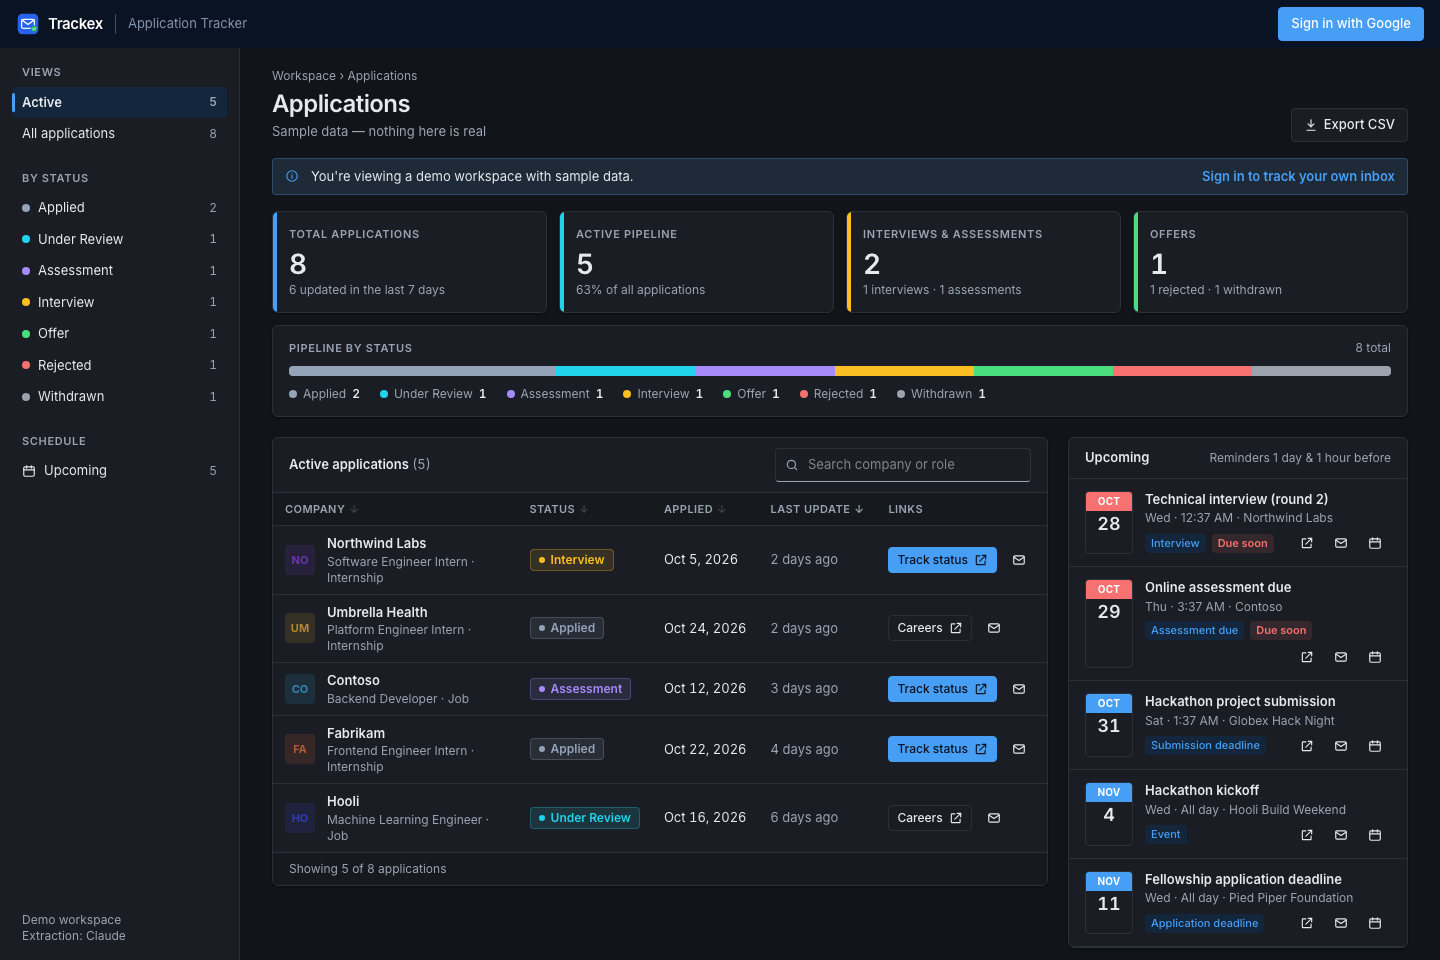
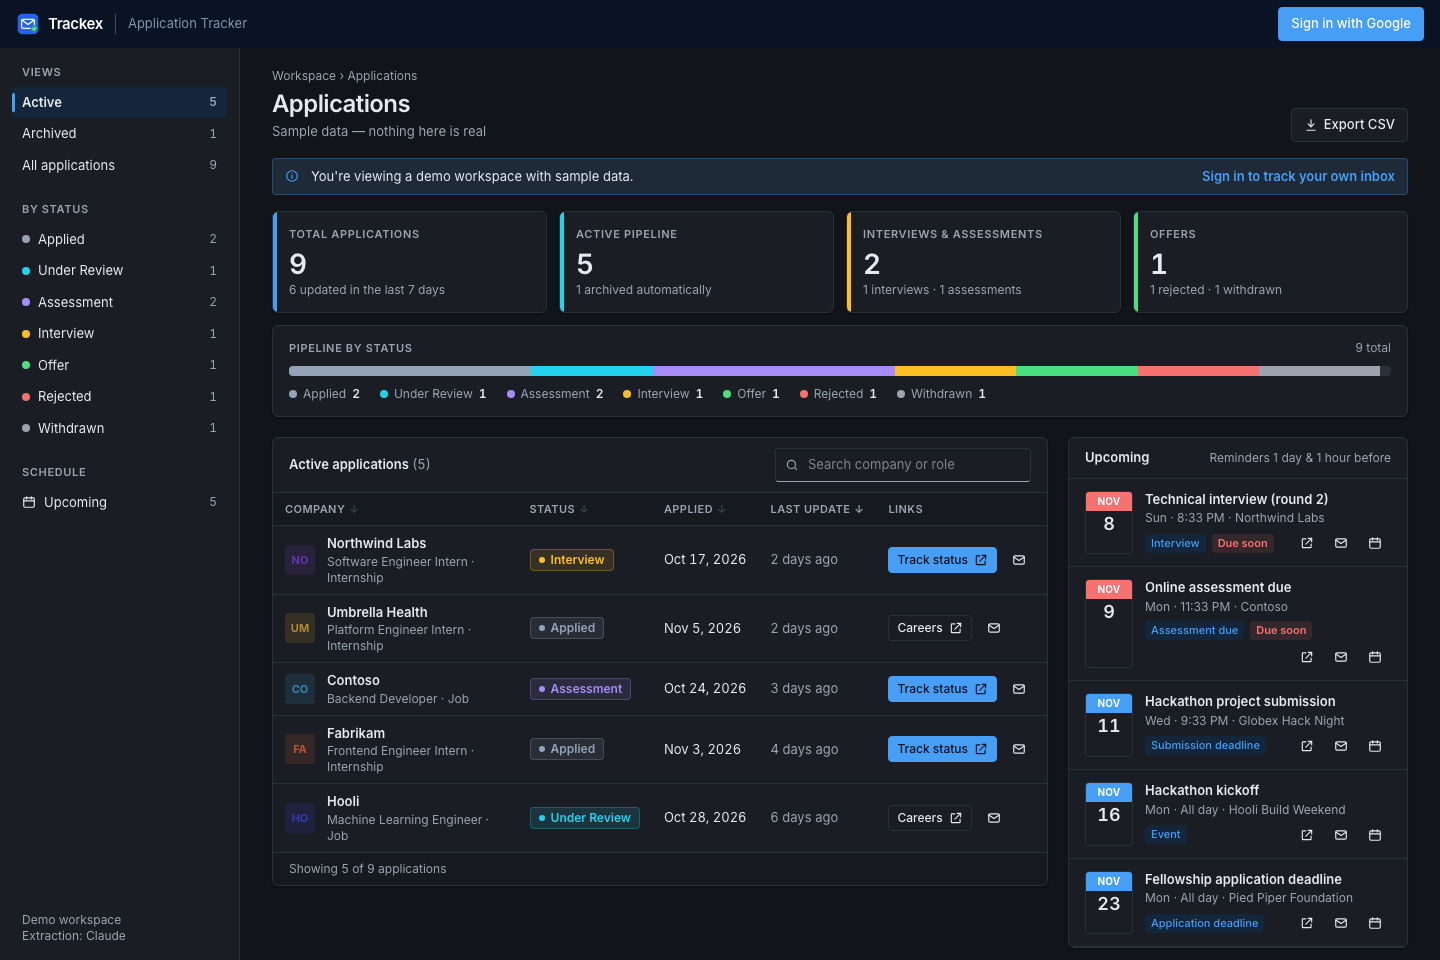
feat: auto-archive expired assessments and fix employer for forwarded placement mail
- lib/archive.ts: Assessment/Interview with no upcoming event and 7 days idle -> expired;
  Applied/Under Review idle 60 days -> quiet. Derived on read, nothing deleted.
- Dashboard: Archived view, Expired/Quiet tags, tiles count live applications only
- guessCompany: for college/placement senders take the employer from the subject;
  same rule added to the Claude prompt
- tests, demo data (expired example), changelog, README, refreshed screenshots

diff --git a/components/DashboardView.tsx b/components/DashboardView.tsx
@@ -11,7 +11,7 @@ import Toast from '@/components/Toast';
 import Modal from '@/components/Modal';
 import TimezoneReporter from '@/components/TimezoneReporter';
 
-type Filter = 'Active' | 'All' | Status;
+type Filter = 'Active' | 'Archived' | 'All' | Status;
 type SortKey = 'company' | 'status' | 'appliedOn' | 'lastUpdate';
 const INACTIVE: Status[] = ['Rejected', 'Withdrawn', 'Offer'];
 const WEEK_MS = 7 * 86_400_000;
@@ -149,14 +149,20 @@ export default function DashboardView({ data: initial, mode }: { data: Dashboard
   const apps = data.applications;
   const counts = useMemo(() => {
     const by = Object.fromEntries(STATUSES.map((s) => [s, apps.filter((a) => a.status === s).length])) as Record<Status, number>;
-    return { by, total: apps.length, active: apps.filter((a) => !INACTIVE.includes(a.status)).length };
+    const live = apps.filter((a) => !a.archived);
+    return {
+      by, total: apps.length, active: live.filter((a) => !INACTIVE.includes(a.status)).length,
+      archived: apps.length - live.length,
+      interviews: live.filter((a) => a.status === 'Interview').length,
+      assessments: live.filter((a) => a.status === 'Assessment').length
+    };
   }, [apps]);
   const updatedThisWeek = now === null ? null : apps.filter((a) => now - new Date(a.lastUpdate).getTime() < WEEK_MS).length;
 
   const visible = useMemo(() => {
     const q = query.trim().toLowerCase();
     const list = apps.filter((a) => {
-      if (filter === 'Active' ? INACTIVE.includes(a.status) : filter !== 'All' && a.status !== filter) return false;
+      if (filter === 'Active' ? INACTIVE.includes(a.status) || a.archived : filter === 'Archived' ? !a.archived : filter !== 'All' && a.status !== filter) return false;
       return !q || `${a.company} ${a.role} ${a.type} ${a.status}`.toLowerCase().includes(q);
     });
     const { key, dir } = sort;
@@ -178,8 +184,8 @@ export default function DashboardView({ data: initial, mode }: { data: Dashboard
     setSort((s) => (s.key === key ? { key, dir: (s.dir * -1) as 1 | -1 } : { key, dir: key === 'company' ? 1 : -1 }));
 
   const lastSynced = data.lastSyncAt ? (now ? relTime(data.lastSyncAt, now) : '…') : 'never';
-  const filterCount = (f: Filter) => (f === 'Active' ? counts.active : f === 'All' ? counts.total : counts.by[f]);
-  const filterTitle = filter === 'Active' ? 'Active applications' : filter === 'All' ? 'All applications' : filter;
+  const filterCount = (f: Filter) => (f === 'Active' ? counts.active : f === 'Archived' ? counts.archived : f === 'All' ? counts.total : counts.by[f]);
+  const filterTitle = filter === 'Active' ? 'Active applications' : filter === 'All' ? 'All applications' : filter === 'Archived' ? 'Archived applications' : filter;
   const pct = (n: number) => (counts.total ? Math.round((n / counts.total) * 100) : 0);
 
   const sortHead = (label: string, key: SortKey, cls = '') => (
@@ -226,8 +232,8 @@ export default function DashboardView({ data: initial, mode }: { data: Dashboard
   const initialLetter = (data.user?.name || data.user?.email || '?').trim().charAt(0).toUpperCase();
   const kpis: { label: string; value: number; note: string; color: string }[] = [
     { label: 'Total applications', value: counts.total, note: updatedThisWeek === null ? '…' : `${updatedThisWeek} updated in the last 7 days`, color: 'var(--accent)' },
-    { label: 'Active pipeline', value: counts.active, note: `${pct(counts.active)}% of all applications`, color: 'var(--s-review)' },
-    { label: 'Interviews & assessments', value: counts.by.Interview + counts.by.Assessment, note: `${counts.by.Interview} interviews · ${counts.by.Assessment} assessments`, color: 'var(--s-interview)' },
+    { label: 'Active pipeline', value: counts.active, note: counts.archived ? `${counts.archived} archived automatically` : `${pct(counts.active)}% of all applications`, color: 'var(--s-review)' },
+    { label: 'Interviews & assessments', value: counts.interviews + counts.assessments, note: `${counts.interviews} interviews · ${counts.assessments} assessments`, color: 'var(--s-interview)' },
     { label: 'Offers', value: counts.by.Offer, note: `${counts.by.Rejected} rejected · ${counts.by.Withdrawn} withdrawn`, color: 'var(--s-offer)' }
   ];
 
@@ -285,6 +291,7 @@ export default function DashboardView({ data: initial, mode }: { data: Dashboard
              style={{ background: 'var(--panel)', borderRight: '1px solid var(--line)' }}>
           <div className="eyebrow px-2.5 pb-1.5">Views</div>
           {navButton('Active', 'Active')}
+          {navButton('Archived', 'Archived')}
           {navButton('All', 'All applications')}
           <div className="eyebrow mt-5 px-2.5 pb-1.5">By status</div>
           {STATUSES.map((s) => navButton(s, s, STATUS_COLOR[s]))}
@@ -372,7 +379,7 @@ export default function DashboardView({ data: initial, mode }: { data: Dashboard
                 <span>{filterTitle} <span className="num font-normal muted">({visible.length})</span></span>
                 <div className="flex flex-1 flex-wrap items-center justify-end gap-2">
                   <select aria-label="Filter by status" className="input lg:hidden" value={filter} onChange={(e) => setFilter(e.target.value as Filter)}>
-                    {(['Active', 'All', ...STATUSES] as Filter[]).map((f) => <option key={f} value={f}>{f} ({filterCount(f)})</option>)}
+                    {(['Active', 'Archived', 'All', ...STATUSES] as Filter[]).map((f) => <option key={f} value={f}>{f} ({filterCount(f)})</option>)}
                   </select>
                   <label className="relative block w-full sm:w-64">
                     <span className="pointer-events-none absolute left-2.5 top-1/2 flex -translate-y-1/2 muted">{Icon.search}</span>
@@ -400,7 +407,7 @@ export default function DashboardView({ data: initial, mode }: { data: Dashboard
                           <div className="min-w-0 flex-1">
                             <div className="flex items-start justify-between gap-2">
                               <div className="truncate font-semibold">{a.company}</div>
-                              <StatusChip status={a.status} />
+                              <StatusChip status={a.status} archived={a.archived} />
                             </div>
                             <div className="truncate text-[13px] muted">{a.role || 'Role not detected'}{a.type ? ` · ${a.type}` : ''}</div>
                             <div className="mt-1 text-xs muted">Applied {shortDate(a.appliedOn)} · updated {now ? relTime(a.lastUpdate, now) : '…'}</div>
@@ -435,7 +442,7 @@ export default function DashboardView({ data: initial, mode }: { data: Dashboard
                                 </div>
                               </div>
                             </td>
-                            <td><StatusChip status={a.status} /></td>
+                            <td><StatusChip status={a.status} archived={a.archived} /></td>
                             <td className="num whitespace-nowrap">{shortDate(a.appliedOn)}</td>
                             <td className="whitespace-nowrap muted" title={shortDate(a.lastUpdate)}>{now ? relTime(a.lastUpdate, now) : '…'}</td>
                             <td>{links(a)}</td>

diff --git a/test/v2/archive.test.ts b/test/v2/archive.test.ts
@@ -1,0 +1,59 @@
+import { describe, test, expect } from 'vitest';
+import { archiveReason, markArchived } from '@/lib/archive';
+import { companyFromSubject, guessCompany } from '@/lib/extract/heuristics';
+import type { ApplicationView, EventView, Status } from '@/lib/types';
+
+const DAY = 86_400_000;
+const NOW = Date.parse('2026-11-07T12:00:00Z');
+const app = (company: string, status: Status, idleDays: number): ApplicationView => ({
+  id: company, company, role: '', type: '', status, appliedOn: new Date(NOW - 40 * DAY).toISOString(),
+  lastUpdate: new Date(NOW - idleDays * DAY).toISOString(), portalUrl: '', portalKind: '', emailLink: '', lastSubject: '', notes: ''
+});
+const event = (organization: string, inDays: number): EventView => ({
+  id: organization, title: 'x', organization, kind: 'assessment_due', startsAt: new Date(NOW + inDays * DAY).toISOString(),
+  allDay: false, link: '', emailLink: '', calendarLink: ''
+});
+
+describe('auto-archive', () => {
+  test('an assessment with no upcoming date and a week of silence expires', () => {
+    expect(archiveReason(app('Accenture', 'Assessment', 30), [], NOW)).toBe('expired');
+    expect(archiveReason(app('Accenture', 'Interview', 8), [], NOW)).toBe('expired');
+  });
+
+  test('a recent update, or an upcoming event for the company, keeps it live', () => {
+    expect(archiveReason(app('Accenture', 'Assessment', 3), [], NOW)).toBeNull();
+    expect(archiveReason(app('Accenture', 'Assessment', 30), [event('Accenture', 2)], NOW)).toBeNull();
+    expect(archiveReason(app('Northwind Labs', 'Interview', 30), [event('Northwind', 1)], NOW)).toBeNull();
+  });
+
+  test('a past event does not keep it live; another company\'s event does not either', () => {
+    expect(archiveReason(app('Accenture', 'Assessment', 30), [event('Accenture', -2)], NOW)).toBe('expired');
+    expect(archiveReason(app('Accenture', 'Assessment', 30), [event('Contoso', 2)], NOW)).toBe('expired');
+  });
+
+  test('applied / under review go quiet after 60 days; closed outcomes are never archived', () => {
+    expect(archiveReason(app('Hooli', 'Applied', 61), [], NOW)).toBe('quiet');
+    expect(archiveReason(app('Hooli', 'Under Review', 59), [], NOW)).toBeNull();
+    for (const s of ['Offer', 'Rejected', 'Withdrawn'] as Status[]) expect(archiveReason(app('X Corp', s, 400), [], NOW)).toBeNull();
+  });
+
+  test('markArchived annotates every row', () => {
+    const out = markArchived([app('Accenture', 'Assessment', 30), app('Hooli', 'Applied', 2)], [], NOW);
+    expect(out.map(a => a.archived)).toEqual(['expired', null]);
+  });
+});
+
+describe('forwarded placement-cell mail', () => {
+  const from = '"Dr. Sandeep Chaurasia [MU - Jaipur]" <sandeep.chaurasia@jaipur.manipal.edu>';
+  const subject = 'FW: Urgent: Accenture \\\\ Important Guidelines for Accenture Assessment Process';
+
+  test('the employer comes from the subject, not the forwarding professor', () => {
+    expect(companyFromSubject(subject)).toBe('Accenture');
+    expect(guessCompany({ from, subject })).toBe('Accenture');
+  });
+
+  test('ordinary employer mail is unchanged', () => {
+    expect(guessCompany({ from: '"Stripe Recruiting" <jobs@stripe.com>', subject: 'Thanks for applying' })).toBe('Stripe');
+    expect(guessCompany({ from })).not.toBe('');
+  });
+});

diff --git a/lib/data.ts b/lib/data.ts
@@ -1,5 +1,6 @@
 import { and, asc, desc, eq, gt } from 'drizzle-orm';
 import { db, schema } from '@/lib/db';
+import { markArchived } from '@/lib/archive';
 import { claudeEnabled } from '@/lib/extract/claude';
 import type { DashboardData, EventKind, PortalKind, Status } from '@/lib/types';
 
@@ -18,19 +19,22 @@ export async function getDashboardData(userId: string): Promise<DashboardData> {
       .orderBy(asc(schema.events.startsAt)).limit(50)
   ]);
 
+  const events = evs.map(e => ({
+    id: e.id, title: e.title, organization: e.organization, kind: e.kind as EventKind,
+    startsAt: e.startsAt.toISOString(), allDay: e.allDay, link: e.link, emailLink: e.emailLink,
+    calendarLink: e.calendarLink
+  }));
+  const applications = apps.map(a => ({
+    id: a.id, company: a.company, role: a.role, type: a.type, status: a.status as Status,
+    appliedOn: a.appliedOn.toISOString(), lastUpdate: a.lastUpdate.toISOString(),
+    portalUrl: a.portalUrl, portalKind: a.portalKind as PortalKind, emailLink: a.emailLink,
+    lastSubject: a.lastSubject, notes: a.notes
+  }));
+
   return {
     user: { name: user.name, email: user.email, image: user.image },
-    applications: apps.map(a => ({
-      id: a.id, company: a.company, role: a.role, type: a.type, status: a.status as Status,
-      appliedOn: a.appliedOn.toISOString(), lastUpdate: a.lastUpdate.toISOString(),
-      portalUrl: a.portalUrl, portalKind: a.portalKind as PortalKind, emailLink: a.emailLink,
-      lastSubject: a.lastSubject, notes: a.notes
-    })),
-    events: evs.map(e => ({
-      id: e.id, title: e.title, organization: e.organization, kind: e.kind as EventKind,
-      startsAt: e.startsAt.toISOString(), allDay: e.allDay, link: e.link, emailLink: e.emailLink,
-      calendarLink: e.calendarLink
-    })),
+    applications: markArchived(applications, events),
+    events,
     lastSyncAt: user.lastSyncAt?.toISOString() ?? null,
     syncError: user.syncError,
     backfilling: !user.backfillDone,

diff --git a/lib/archive.ts b/lib/archive.ts
@@ -1,0 +1,34 @@
+import { companyKey } from '@/lib/match';
+import type { ApplicationView, ArchiveReason, EventView } from '@/lib/types';
+
+const DAY = 86_400_000;
+
+/** How long an application may sit without news before it leaves the Active view. */
+export const ARCHIVE_AFTER_DAYS = { scheduled: 7, quiet: 60 } as const;
+
+const SCHEDULED = new Set(['Assessment', 'Interview']);
+const EARLY = new Set(['Applied', 'Under Review']);
+
+/**
+ * Why an application should be archived, or null if it is still live. Pure and derived on read,
+ * so nothing is deleted and an application comes back on its own if a new email arrives.
+ *  - expired: an assessment or interview whose date has passed (no upcoming event, no news for a week)
+ *  - quiet:   applied or under review with no news for 60 days
+ * Offer, Rejected and Withdrawn are already outside Active, so they are never archived here.
+ */
+export function archiveReason(app: ApplicationView, upcoming: EventView[], now: number): ArchiveReason | null {
+  const idle = (now - new Date(app.lastUpdate).getTime()) / DAY;
+  if (SCHEDULED.has(app.status)) {
+    const key = companyKey(app.company);
+    const hasUpcoming = key.length >= 3 && upcoming.some(e => {
+      const k = companyKey(e.organization);
+      return new Date(e.startsAt).getTime() > now && k.length >= 3 && (k.includes(key) || key.includes(k));
+    });
+    return !hasUpcoming && idle > ARCHIVE_AFTER_DAYS.scheduled ? 'expired' : null;
+  }
+  return EARLY.has(app.status) && idle > ARCHIVE_AFTER_DAYS.quiet ? 'quiet' : null;
+}
+
+export function markArchived(apps: ApplicationView[], events: EventView[], now = Date.now()): ApplicationView[] {
+  return apps.map(a => ({ ...a, archived: archiveReason(a, events, now) }));
+}

diff --git a/components/StatusChip.tsx b/components/StatusChip.tsx
@@ -1,4 +1,4 @@
-import type { Status } from '@/lib/types';
+import type { ArchiveReason, Status } from '@/lib/types';
 
 export const STATUS_COLOR: Record<Status, string> = {
   Applied: 'var(--s-applied)',
@@ -11,15 +11,29 @@ export const STATUS_COLOR: Record<Status, string> = {
 };
 
 /** Tinted badge: coloured dot and text on a 12% wash of the status colour. */
-export default function StatusChip({ status }: { status: Status }) {
+const ARCHIVE_LABEL: Record<ArchiveReason, [string, string]> = {
+  expired: ['Expired', 'The assessment or interview date has passed and nothing new has arrived.'],
+  quiet: ['Quiet', 'No news for 60 days.']
+};
+
+export default function StatusChip({ status, archived }: { status: Status; archived?: ArchiveReason | null }) {
   const c = STATUS_COLOR[status];
-  return (
+  const chip = (
     <span
       className="inline-flex items-center gap-1.5 whitespace-nowrap rounded px-2 py-0.5 text-xs font-semibold"
       style={{ color: c, background: `color-mix(in srgb, ${c} 12%, transparent)`, border: `1px solid color-mix(in srgb, ${c} 28%, transparent)` }}
     >
       <span aria-hidden="true" className="h-1.5 w-1.5 rounded-full" style={{ background: c }} />
       {status}
+    </span>
+  );
+  if (!archived) return chip;
+  const [label, why] = ARCHIVE_LABEL[archived];
+  return (
+    <span className="inline-flex flex-wrap items-center gap-1.5">
+      {chip}
+      <span title={`Archived automatically. ${why}`} className="rounded px-1.5 py-0.5 text-[11px] font-medium"
+            style={{ color: 'var(--muted)', background: 'var(--panel-2)', border: '1px solid var(--line)' }}>{label}</span>
     </span>
   );
 }

diff --git a/lib/extract/heuristics.ts b/lib/extract/heuristics.ts
@@ -134,7 +134,26 @@ export function findDatedSentences(email: Email): { iso: string; allDay: boolean
   return out.slice(0, 5);
 }
 
-export function guessCompany(email: Pick<Email, 'from'>): string {
+const ACADEMIC_DOMAIN_RE = /\.(edu|ac)(\.[a-z]{2})?$/;
+const ACADEMIC_NAME_RE = /placement|\bdr\.?\s|\bprof(essor)?\b|\[[^\]]*\]|training and placement|\bt&p\b|career (cell|services)/i;
+
+/**
+ * College placement cells forward employer mail ("FW: Urgent: Accenture \\ Assessment guidelines").
+ * The sender is then the college, so the employer is the first name in the subject.
+ */
+export function companyFromSubject(subject: string): string {
+  const s = subject.replace(/^(\s*(re|fw|fwd)\s*:\s*|\s*(urgent|important|reminder|action required)\s*[:\-]\s*)+/gi, '');
+  const first = s.split(/\s*[\\|/–—]\s*|\s+-\s+|:\s+/)[0].trim();
+  return /^[A-Z][\w&.' ]{1,40}$/.test(first) && first.split(' ').length <= 4 ? first : '';
+}
+
+export function guessCompany(email: Pick<Email, 'from'> & { subject?: string }): string {
+  const fromName = (email.from.match(/^\s*"?([^"<]+?)"?\s*</) || [])[1] || '';
+  const fromDomain = ((email.from.match(/@([\w.-]+)/) || [])[1] || '').toLowerCase();
+  if (email.subject && (ACADEMIC_DOMAIN_RE.test(fromDomain) || ACADEMIC_NAME_RE.test(fromName))) {
+    const fromSubject = companyFromSubject(email.subject);
+    if (fromSubject) return fromSubject;
+  }
   const display = (email.from.match(/^\s*"?([^"<]+?)"?\s*</) || [])[1] || '';
   const cleaned = display
     .replace(/\b(via|from)\b.*$/i, '')

diff --git a/lib/demo.ts b/lib/demo.ts
@@ -1,3 +1,4 @@
+import { markArchived } from '@/lib/archive';
 import type { ApplicationView, DashboardData, EventView, Status, PortalKind } from '@/lib/types';
 
 const DAY = 86_400_000;
@@ -26,7 +27,8 @@ export function demoData(now = new Date()): DashboardData {
     app(5, 'Globex', 'Data Analyst', 'Job', 'Offer', 35, 1, 'application_status'),
     app(6, 'Pied Piper', 'Compression Research Fellow', 'Fellowship', 'Rejected', 40, 12, ''),
     app(7, 'Initech', 'QA Engineer', 'Job', 'Withdrawn', 30, 18, 'careers_portal'),
-    app(8, 'Umbrella Health', 'Platform Engineer Intern', 'Internship', 'Applied', 2, 2, 'careers_portal')
+    app(8, 'Umbrella Health', 'Platform Engineer Intern', 'Internship', 'Applied', 2, 2, 'careers_portal'),
+    app(9, 'Stark Industries', 'Systems Engineer Intern', 'Internship', 'Assessment', 26, 19, 'application_status')
   ];
 
   const ev = (
@@ -47,7 +49,7 @@ export function demoData(now = new Date()): DashboardData {
 
   return {
     user: { name: 'Demo user', email: 'demo@example.com', image: '' },
-    applications, events,
+    applications: markArchived(applications, events, t), events,
     lastSyncAt: new Date(t - 7 * 60_000).toISOString(),
     syncError: null, backfilling: false, claude: true
   };

diff --git a/lib/extract/claude.ts b/lib/extract/claude.ts
@@ -79,7 +79,7 @@ category:
 - "other": everything else. Return empty application fields and no events.
 
 application (fill only for job_application, otherwise all empty strings):
-- company: the hiring organization, not the ATS vendor (an email from Greenhouse on behalf of Stripe → "Stripe").
+- company: the hiring organization, not the ATS vendor (an email from Greenhouse on behalf of Stripe → "Stripe"). If a college placement cell or a person forwards an employer's mail, the company is the employer named in the subject or body, never the college or the sender ("FW: Urgent: Accenture \\ Assessment guidelines" from a professor → "Accenture").
 - role: exact role title if stated, else "".
 - status: the stage this email signals.
 - portal_url: copy EXACTLY one URL from the provided link list, in this order of preference:

diff --git a/lib/types.ts b/lib/types.ts
@@ -90,6 +90,9 @@ export interface MatchMeta {
 
 // ---- UI contract (serialisable: dates as ISO strings) ----
 
+/** Set when an application is automatically moved out of the Active view (see lib/archive.ts). */
+export type ArchiveReason = 'expired' | 'quiet';
+
 export interface ApplicationView {
   id: string;
   company: string;
@@ -103,6 +106,7 @@ export interface ApplicationView {
   emailLink: string;
   lastSubject: string;
   notes: string;
+  archived?: ArchiveReason | null;
 }
 
 export interface EventView {

diff --git a/README.md b/README.md
@@ -42,6 +42,7 @@ Applying to 50 internships means 50 confirmation emails, a dozen assessment link
 
 - **Fully automatic.** Every 15 minutes Trackex reads new job, internship and hackathon emails. The first sync backfills the last 180 days (and continues across runs if needed).
 - **Status that moves itself.** Applied, Under Review, Assessment, Interview, Offer, Rejected, Withdrawn. Status only moves forward, from newer emails.
+- **Expired items archive themselves.** An assessment or interview whose date has passed is marked *Expired*, and applications that go quiet for 60 days are marked *Quiet*. Both move to an **Archived** view instead of cluttering Active, and return if a new email arrives.
 - **Rejections find the right application.** Companies are normalised and roles matched fuzzily, so a differently worded rejection still lands on the right row. Duplicates are merged.
 - **Every link in one window.** Each application links to the email's own "track your application" page (even when the link text is just "click here"), falling back to the candidate portal, then the careers site, plus the source email.
 - **Deadlines on your calendar.** Interviews, assessments and assignments, and hackathon, registration, submission and application deadlines go into a dedicated **Trackex** Google Calendar at the exact time in your time zone.

diff --git a/CHANGELOG.md b/CHANGELOG.md
@@ -7,6 +7,14 @@ and this project adheres to [Semantic Versioning](https://semver.org/spec/v2.0.0
 
 ## [Unreleased]
 
+### Added
+
+- Automatic archiving: an Assessment or Interview with no upcoming event and a week of silence is marked **Expired**, and an Applied or Under Review application with no news for 60 days is marked **Quiet**. Both leave the Active view and appear under a new **Archived** view, and they come back on their own if a new email arrives. Nothing is deleted.
+
+### Fixed
+
+- Mail forwarded by a college placement cell ("FW: Urgent: Accenture \\ Assessment guidelines" from a professor) is now filed under the employer named in the subject instead of the forwarding person. Claude extraction gets the same rule.
+
 ### Fixed
 
 - First sync no longer fails with "Quota exceeded ... Units per minute per user". Gmail reports its quota as HTTP 403, which was not retried. Quota errors now back off (honouring `Retry-After`), message fetches run 4 at a time instead of 10, and if the quota still does not recover the sync pauses and continues on the next run instead of showing an error.
